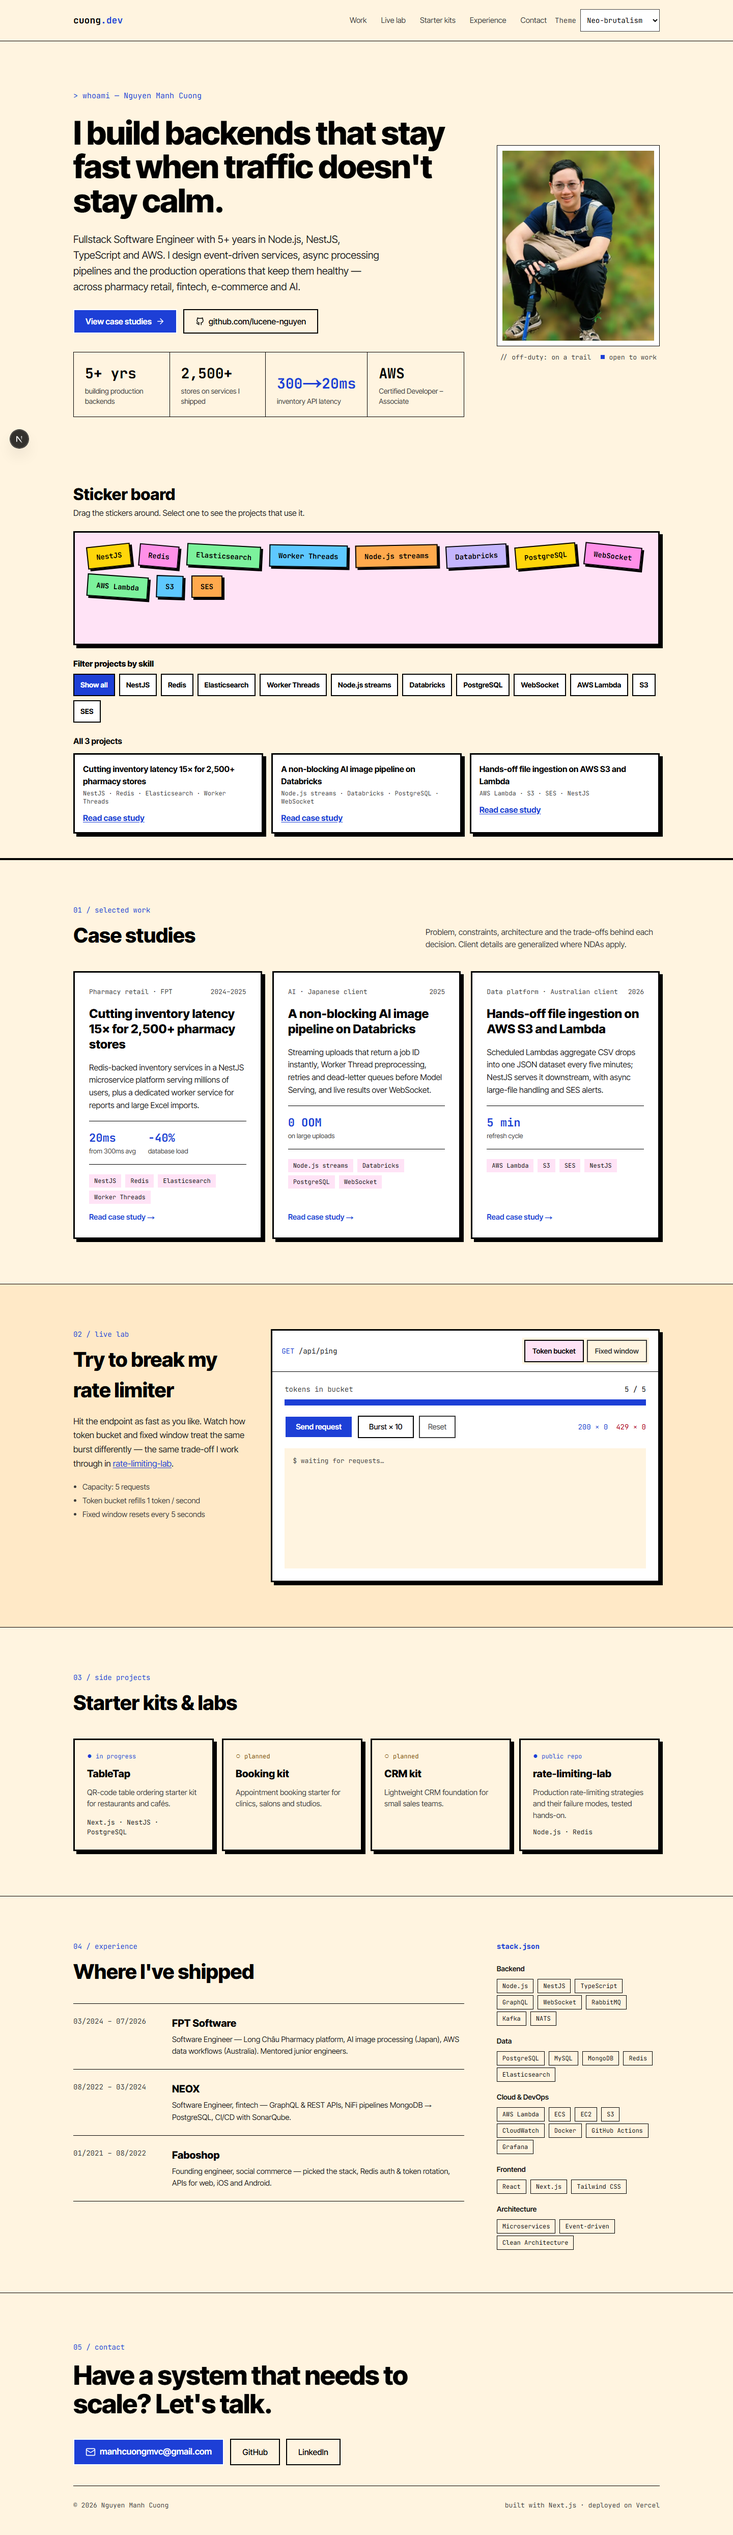
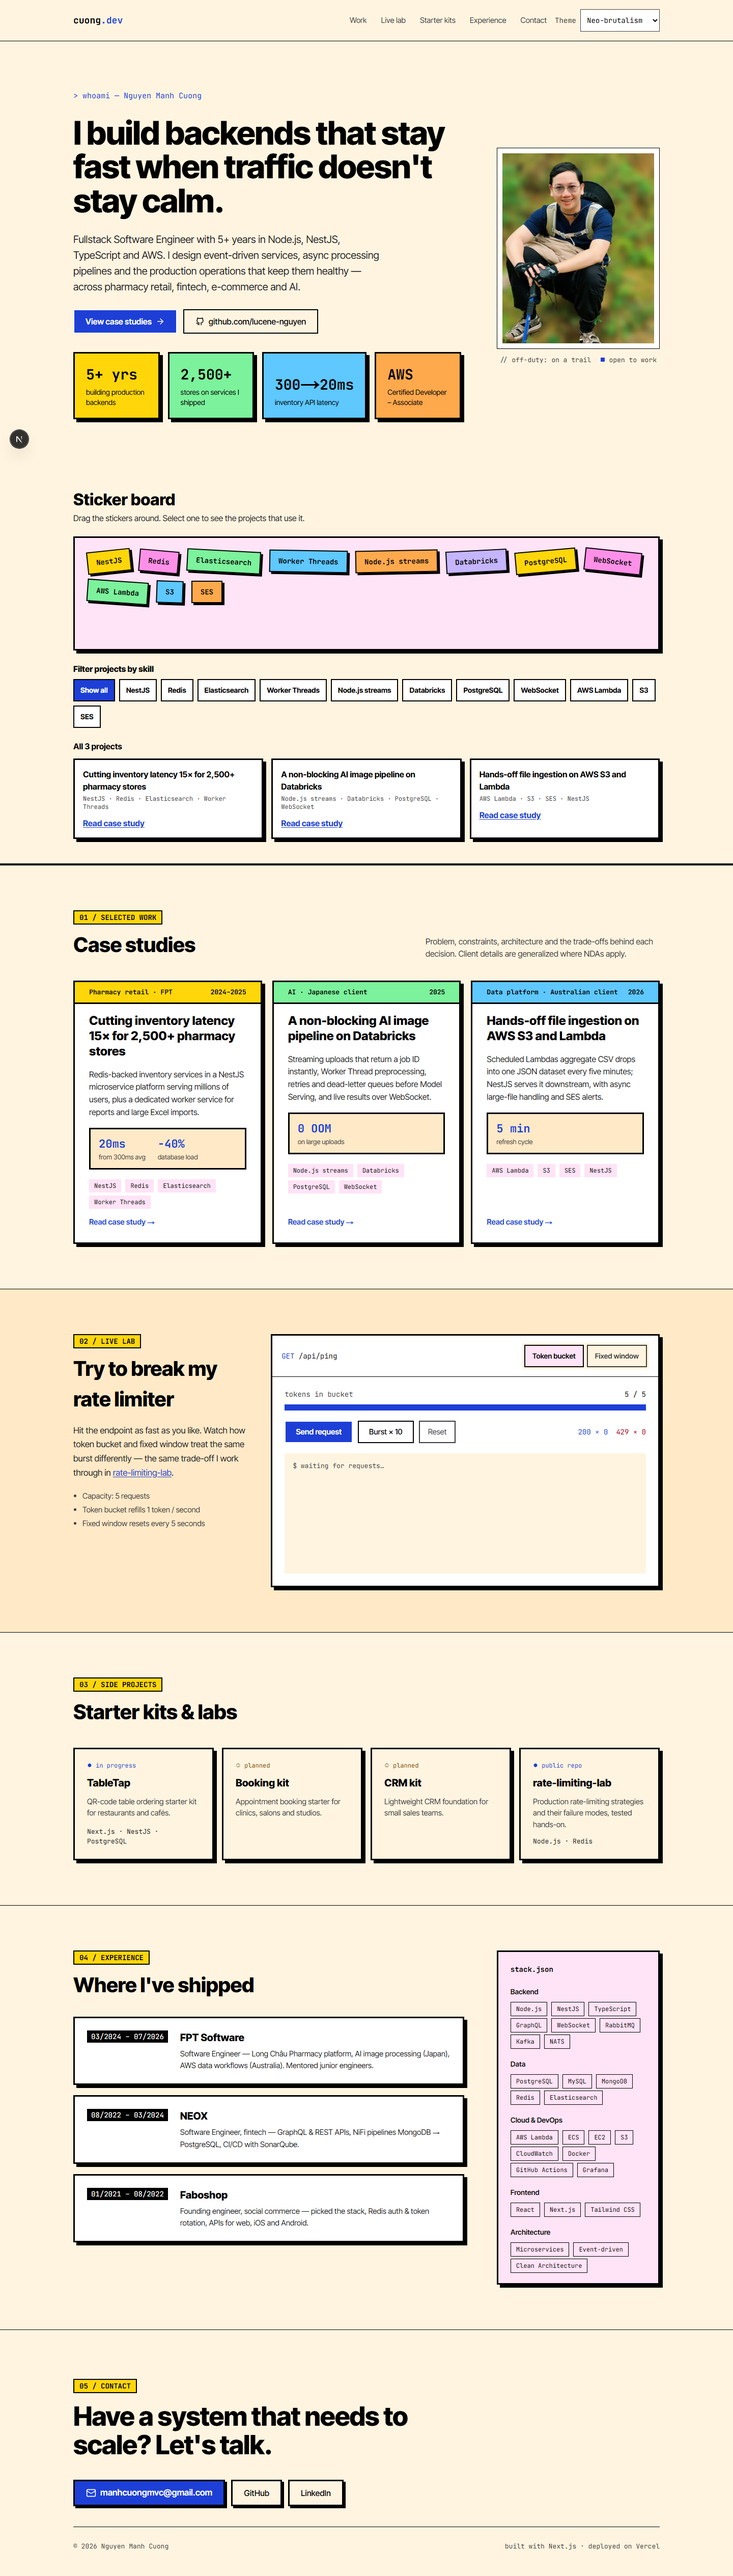
feat(ui): neo-brutalism restyle - sticker header strips, stat stickers, role cards, layout rules; screenshots

diff --git a/themes/neo-brutalism/neo.css b/themes/neo-brutalism/neo.css
@@ -1,4 +1,14 @@
 /* Scoped to Neo-brutalism: thick black borders, hard offset shadows, no easing. */
+[data-theme="neo-brutalism"] {
+  /* Sticker fills (stickers.ts STICKER_FILLS); only black text sits on them. */
+  --nb-yellow: #ffd60a;
+  --nb-pink: #ff90e8;
+  --nb-green: #7cf29c;
+  --nb-blue: #5ec8ff;
+  --nb-orange: #ffa94d;
+  --nb-violet: #c4b5fd;
+  --nb-shadow: 6px 6px 0 var(--border);
+}
 [data-theme="neo-brutalism"] * {
   border-radius: 0 !important;
   transition: none !important;
@@ -7,8 +17,8 @@
   font-weight: 800;
 }
 [data-theme="neo-brutalism"] :is(#work article, #lab .bg-surface, #kits li > *, .nb-card) {
-  border: 3px solid #000 !important;
-  box-shadow: 6px 6px 0 #000;
+  border: 3px solid var(--border) !important;
+  box-shadow: 6px 6px 0 var(--border);
 }
 [data-theme="neo-brutalism"] :is(a.inline-flex, button) {
   border-width: 2px;
@@ -18,12 +28,103 @@
   outline-offset: 3px;
 }
 .nb-sticker {
-  border: 3px solid #000;
-  box-shadow: 4px 4px 0 #000;
+  border: 3px solid var(--border);
+  box-shadow: 4px 4px 0 var(--border);
   touch-action: none;
 }
 .nb-sticker[aria-pressed="true"] {
   box-shadow: none;
   outline: 3px solid var(--accent);
   outline-offset: 3px;
+}
+
+/* Shared sections (design-system/portfolio-v3/pages/neo-brutalism.md › Layout). */
+[data-theme="neo-brutalism"] [data-part="eyebrow"] {
+  width: fit-content;
+  padding: 2px 10px;
+  border: 2px solid var(--border);
+  background: var(--nb-yellow);
+  color: var(--text);
+  font-weight: 700;
+  text-transform: uppercase;
+}
+
+/* Case studies: a loud colour header strip per card, edge to edge (card p-7, 3px border). */
+[data-theme="neo-brutalism"] [data-part="case-meta"] {
+  margin: -1.75rem -1.75rem 0;
+  padding: 10px 1.75rem;
+  border-bottom: 3px solid var(--border);
+  background: var(--nb-yellow);
+  color: var(--text);
+  font-weight: 700;
+}
+[data-theme="neo-brutalism"] [data-part="case-card"]:nth-child(3n + 2) [data-part="case-meta"] {
+  background: var(--nb-green);
+}
+[data-theme="neo-brutalism"] [data-part="case-card"]:nth-child(3n) [data-part="case-meta"] {
+  background: var(--nb-blue);
+}
+[data-theme="neo-brutalism"] [data-part="case-metrics"] {
+  padding: 12px 16px;
+  border: 3px solid var(--border);
+  background: var(--bg-alt);
+}
+
+/* Hero numbers: separate stickers with hard shadows instead of a divided strip. */
+[data-theme="neo-brutalism"] [data-part="stats"] {
+  gap: 16px;
+  padding: 0 6px 6px 0; /* room for the shadows */
+  border: 0;
+  overflow: visible;
+}
+[data-theme="neo-brutalism"] [data-part="stat"] {
+  border: 3px solid var(--border) !important;
+  box-shadow: var(--nb-shadow);
+  background: var(--nb-yellow);
+}
+[data-theme="neo-brutalism"] [data-part="stat"]:nth-child(2) {
+  background: var(--nb-green);
+}
+[data-theme="neo-brutalism"] [data-part="stat"]:nth-child(3) {
+  background: var(--nb-blue);
+}
+[data-theme="neo-brutalism"] [data-part="stat"]:nth-child(4) {
+  background: var(--nb-orange);
+}
+[data-theme="neo-brutalism"] [data-part="stat"] :is(dt, dd) {
+  color: var(--text);
+}
+
+/* Experience: each role is a card with a black period label; the stack is a pink panel. */
+[data-theme="neo-brutalism"] [data-part="roles"] {
+  display: flex;
+  flex-direction: column;
+  gap: 20px;
+}
+[data-theme="neo-brutalism"] :is([data-part="role"], [data-part="stack"]) {
+  padding: 24px;
+  border: 3px solid var(--border) !important;
+  box-shadow: var(--nb-shadow);
+  background: var(--surface);
+}
+[data-theme="neo-brutalism"] [data-part="role"] > span:first-child {
+  flex: 0 0 auto;
+  align-self: flex-start;
+  padding: 2px 8px;
+  background: var(--text);
+  color: var(--surface);
+}
+[data-theme="neo-brutalism"] [data-part="stack"] {
+  align-self: flex-start;
+  background: var(--surface2);
+}
+[data-theme="neo-brutalism"] [data-part="stack"] h3 {
+  color: var(--text);
+  font-weight: 700;
+}
+
+/* Contact: actions get the hard shadow too. */
+[data-theme="neo-brutalism"] [data-part="contact-actions"] [data-part="button"] {
+  border: 3px solid var(--border);
+  box-shadow: 4px 4px 0 var(--border);
 }

diff --git a/e2e/neo-brutalism.spec.ts b/e2e/neo-brutalism.spec.ts
@@ -72,3 +72,26 @@ test("axe clean; 375px", async ({ page }) => {
   );
   expect(overflow).toBeLessThanOrEqual(0);
 });
+
+test("shared sections are restyled as stickers", async ({ page }) => {
+  const shadow = "rgb(0, 0, 0) 6px 6px 0px 0px";
+  await expect(page.locator('#work [data-part="eyebrow"]')).toHaveCSS(
+    "background-color",
+    "rgb(255, 214, 10)",
+  );
+  const metas = page.locator('#work [data-part="case-meta"]');
+  await expect(metas.nth(0)).toHaveCSS("background-color", "rgb(255, 214, 10)");
+  await expect(metas.nth(1)).toHaveCSS("background-color", "rgb(124, 242, 156)");
+  const stat = page.locator('[data-part="stat"]').first();
+  await expect(stat).toHaveCSS("border-top-width", "3px");
+  await expect(stat).toHaveCSS("box-shadow", shadow);
+  await expect(page.locator('[data-part="role"]').first()).toHaveCSS("box-shadow", shadow);
+  await expect(page.locator('[data-part="stack"]')).toHaveCSS(
+    "background-color",
+    "rgb(255, 227, 246)",
+  );
+  await expect(page.locator('[data-part="role"] > span').first()).toHaveCSS(
+    "background-color",
+    "rgb(0, 0, 0)",
+  );
+});

diff --git a/e2e/checklist.spec.ts b/e2e/checklist.spec.ts
@@ -12,6 +12,7 @@ const THEMES = [
   "ide",
   "docs",
   "bento",
+  "neo-brutalism",
 ];
 
 const overflow = (page: Page) =>

diff --git a/design-system/portfolio-v3/pages/neo-brutalism.md b/design-system/portfolio-v3/pages/neo-brutalism.md
@@ -39,3 +39,18 @@ Sticker fills (black text, each ≥ 4.5:1, tested in `themes/neo-brutalism/stick
 ## Sticker board
 - One sticker per case-study skill; drag (pointer) only repositions; click/Enter toggles the filter.
 - Same filter as a plain list of buttons ("Show all" + one per skill, `aria-pressed`); result count announced.
+
+## Layout
+Shared sections (UI round 1). Searches:
+- `"neo brutalism bold portfolio" --domain landing` returned 0 results; the retry `"portfolio grid creative"` verified Portfolio Grid (work first, contact last; keep the sections in that order).
+- `"neubrutalism" --domain style` verified Neubrutalism: 3px black borders, hard offset shadows, flat high-saturation fills, bold type, no gradients or blur.
+- ux `"bold borders visual hierarchy contrast"`: Contrast Readability applied (only black text on sticker fills). Hover States are already handled by the shared components; Breadcrumbs were ignored as off-topic (flat site).
+
+Rules:
+- Sticker fills are theme-scoped CSS variables (`--nb-yellow`, `--nb-green`, `--nb-blue`, `--nb-orange`, `--nb-pink`, `--nb-violet`), the same values as `STICKER_FILLS`; black (`--border`/`--text`) is the only colour drawn on them.
+- Eyebrows: uppercase yellow label, 2px black border.
+- Case studies: a 3px colour header strip per card (yellow, green, blue, repeating), edge to edge; metrics in a bordered bgAlt box.
+- Hero numbers: four separate stickers (yellow, green, blue, orange) with the 6px hard shadow instead of a divided strip.
+- Experience: each role is a bordered card with a black period label; the stack is a pink (surface2) panel with the hard shadow.
+- Contact actions: 3px border + 4px hard shadow.
+- Rejected: press-to-sink transforms (no motion in this theme), rotated cards (hurts reading at 375px).
